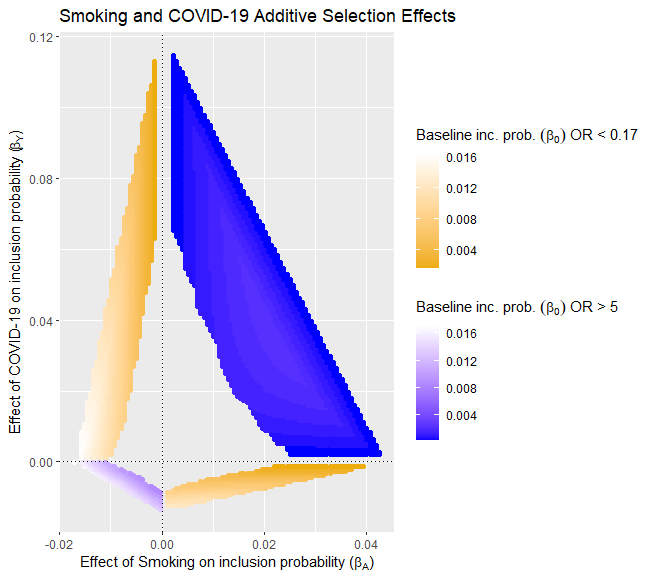
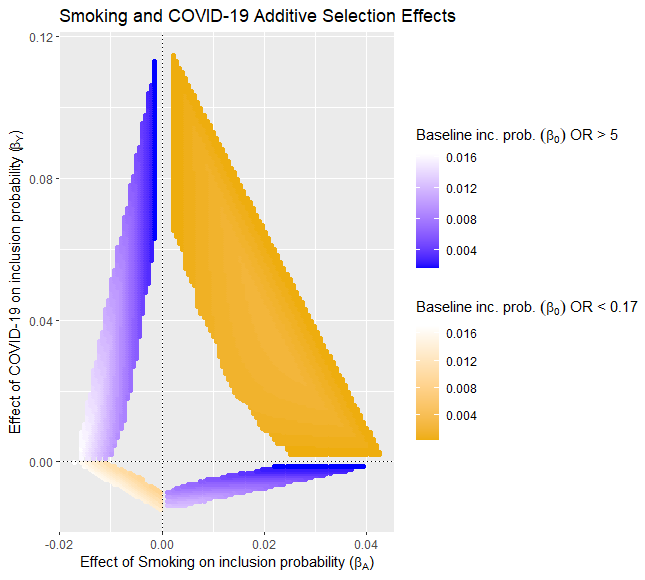
Updates for twofold graphic for under the hood

diff --git a/under_the_hood.md b/under_the_hood.md
@@ -43,7 +43,7 @@ Let's take an example from the literature that emerged around smoking and COVID 
 
 We have written explainers on why inferring from relationships from hospitalised patients may be subject to collider bias [[1](https://www.hdruk.ac.uk/news/we-should-be-cautious-about-associations-of-patient-characteristics-with-covid-19-outcomes-that-are-identified-in-hospitalised-patients/),[2](https://rss.onlinelibrary.wiley.com/doi/10.1111/1740-9713.01413)]. For the purposes of explanation here, let's assume that there is no interaction between the selection processes for smoking and COVID-19 into a hospitalised sample. That is, the selection forces acting on an individual who both smokes and has COVID-19 are equal to the sum of their constituent $\beta$ estimates.
 
-To estimate plausible selection processes, we must input figures for $p_S$ (the proportion of the population sampled), $p_A$ (the population prevalence of smoking), and $p_Y$ (the population prevalence of COVID-19). We are exploring the chance of generating an OR of 0.17 under a null true relationship, thus there is no relationship between smoking and COVID-19, and so $p_{AY}$ is simply $p_Ap_Y$. We take $p_A$ from a population prevalence estimate of smoking in China (27.7%) [[3](https://www.ncbi.nlm.nih.gov/pmc/articles/PMC6546632/)]. We also assume COVID prevalence in the population at this point was 10%. Finally, we must provide a value for $p_S$. This is the strongest assumption, as we are unsure what fraction of the target population the 5023 individuals in the meta-analysis constitute, although for the purposes of this demonstration we will assume this represents 0.001 of the target population.
+To estimate plausible selection processes, we must input figures for $p_S$ (the proportion of the population sampled), $p_A$ (the population prevalence of smoking), and $p_Y$ (the population prevalence of COVID-19). We are exploring the chance of generating an OR of 0.17 under a null true relationship, thus there is no relationship between smoking and COVID-19, and so $p_{AY}$ is simply $p_Ap_Y$. We take $p_A$ from a population prevalence estimate of smoking in China (27.7%) [[3](https://www.ncbi.nlm.nih.gov/pmc/articles/PMC6546632/)]. We also assume COVID prevalence in the population at this point was 10%. Finally, we must provide a value for $p_S$. This is perhaps the strongest assumption, as we are unsure what fraction of the target population the 5023 individuals in the meta-analysis constitute, although for the purposes of this demonstration we will assume this represents 0.01 of the target population.
 
 ### AscRtain Input
 
@@ -177,7 +177,60 @@ SmokingColliderCombined
 ![Smoking and COVID-19 Selection Additive Selection Effects](/00RESEARCH/repo/AscRtain.shiny/app/www/SmokingColliderCombined.png)
 
 
-We can see from the combined figure that there are a large range of possible selection values which could give rise to an observed relationship of a five-fold protective or risk-increasing relationship, under a true null effect. Remember, this is without including the possibility of interactive effects on participation for both exposure and outcome. It is also clear that these are highly sensitive to the specification of $\beta_0$, as the lower the baseline likelihood of sampling, the more likely it is that we are inducing relationships solely as a product of selection, as selected groups make up a larger proportion of the sample. We bounded this for the example above between 0 and 0.2, but it is clear that we only get such extreme ORs when $\beta_0$ is low. Unfortunately, $\beta_0$ is also one of the most difficult parameters to posit hypothetical values for as it is sensitive to study-specific sampling procedure and specification of target population. Moreover, these are often described in inadequate detail to parameterise this in secondary sensitivity analyses, which are most effective when carried out by primary researchers, to minimise researcher degrees of freedom. 
+We can see from the combined figure that there are a large range of possible selection values which could give rise to an observed relationship of a five-fold protective or risk-increasing relationship, under a true null effect. Remember, this is without including the possibility of interactive effects on participation for both exposure and outcome. It is also clear that these are highly sensitive to the specification of $\beta_0$, as the lower the baseline likelihood of sampling, the more likely it is that we are inducing relationships solely as a product of selection, as selected groups make up a larger proportion of the sample. We bounded this for the example above between 0 and 0.2, but it is clear that we only get such extreme ORs when $\beta_0$ is low. Unfortunately, $\beta_0$ is also one of the most difficult parameters to posit hypothetical values for as it is sensitive to study-specific sampling procedure and specification of target population. Moreover, these are often described in inadequate detail to parameterise this in secondary sensitivity analyses, which are most effective when carried out by primary researchers, to minimise researcher degrees of freedom.
+
+We can explore the sensitivity of ORs to selection processes using the same process. If we hypothesise a two-fold elevated risk or protective effect of smoking and produce the same graphic, we can see how different selection processes must be between extreme and less extreme observed relationships. Below is the same graphic but with OR of 2 and 0.5 shaded. 
+
+```{r}
+
+x2 <- VBB$new()
+x2$parameter_space(
+  target_or=2, 
+     pS=0.01, 
+     pA=0.277,
+     pY=0.1,
+     pAY=0.0277,
+     b0_range=c(0,0.2), 
+     ba_range=c(-0.1,0.2), 
+     by_range=c(-0.1,0.2), 
+     bay_range=c(0,0), 
+     granularity=500
+ )
+
+
+x3 <- VBB$new()
+x3$parameter_space(
+  target_or=0.5, 
+     pS=0.01, 
+     pA=0.277,
+     pY=0.1,
+     pAY=0.0277,
+     b0_range=c(0,0.2), 
+     ba_range=c(-0.1,0.2), 
+     by_range=c(-0.1,0.2), 
+     bay_range=c(0,0), 
+     granularity=500
+ )
+ 
+x3$param %>% 
+    ggplot2::ggplot(., aes(x=ba, y=by))+
+    ggplot2::geom_point(aes(colour=b0))+
+    ggplot2::labs(colour = expression (paste("Baseline inc. prob. ", (beta[0]), " OR < 0.5"))) +
+    ggplot2::scale_colour_gradient(low="darkgoldenrod2", high="white")+
+    ggnewscale::new_scale_colour() +
+    ggplot2::geom_point(data=x2$param, aes(colour = b0))+
+    ggplot2::scale_colour_gradient(low= "blue", high="white")+
+    ggplot2::labs(x = expression(paste("Effect of Smoking on inclusion probability (", beta[A],")")),
+                  y=expression(paste("Effect of COVID-19 on inclusion probability (", beta[Y], ")")),
+                  colour = expression(paste("Baseline inc. prob. ", (beta[0])," OR > 2")))+
+    ggplot2::ggtitle("Smoking and COVID-19 Additive Selection Effects")+
+    ggplot2::geom_hline(yintercept=0,size=0.2, linetype="dotted")+
+    ggplot2::geom_vline(xintercept=0, size=0.2, linetype="dotted")
+
+```
+![Smoking and COVID-19 Selection Twofold Additive Selection Effects](/00RESEARCH/repo/AscRtain.shiny/app/www/TwofoldSmokingColliderCombined.png)
+
+We can see from the Figure above, that the less extreme the OR, the more subtle the selection processes can be - as selection effects producing an observed OR under a true null clearly extend further towards the centre for the twofold risk ratios, relative to the fivefold changes. For a given observed relationship we are essentially positing (in the additive space) that our selection processes fall into the central region of the graph, which diminishes as odds ratios become less extreme.
 
 ###  Simulate from parameter values to recapitulate target OR.
 
